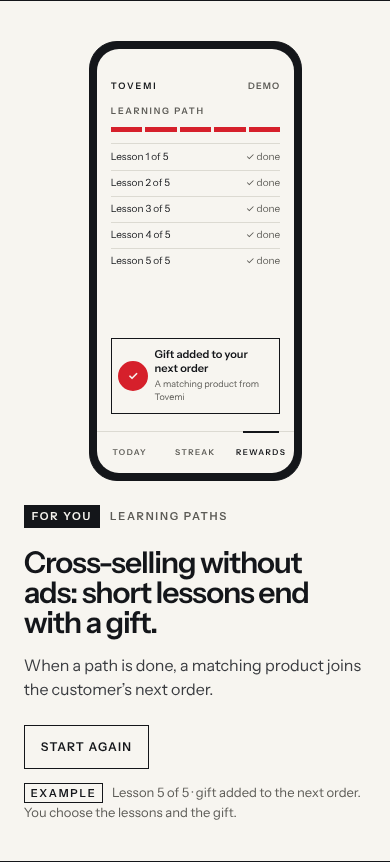
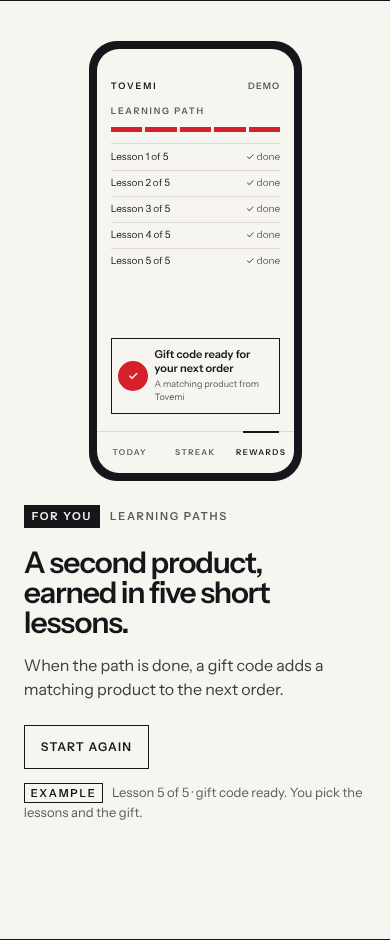
nawyko: R4 sceny d-f — poprawki po recenzji (teksty, rezerwa paska cookies)

diff --git a/app/nawyko/NawykoClient.tsx b/app/nawyko/NawykoClient.tsx
@@ -293,7 +293,7 @@ const BAR_RECTS = BARS.reduce<{ x: number; out: [number, number][] }>(
   },
   { x: 4, out: [] },
 ).out
-const LOCKED = ['Daily card', 'Streak', 'Pack rhythm'] as const
+const LOCKED = ['Daily card', 'Streak'] as const
 
 function Phone({
   step,
@@ -596,7 +596,7 @@ function Phone({
               <span>✓</span>
             </div>
             <div>
-              <b>{lesson >= LESSONS ? 'Gift added to your next order' : 'Gift at the finish'}</b>
+              <b>{lesson >= LESSONS ? 'Gift code ready for your next order' : 'Gift at the finish'}</b>
               <small>A matching product from {brand}</small>
             </div>
           </div>
@@ -618,7 +618,7 @@ function Phone({
           <div className={'nk-ok' + (bought ? ' is-on' : '')}>
             <div className="nk-okrow">
               <span className="nk-tick">✓</span>
-              <span>Purchase confirmed · pharmacy</span>
+              <span>Pack registered · bought offline</span>
             </div>
             <div className="nk-ps">The daily card starts today.</div>
           </div>
@@ -627,7 +627,7 @@ function Phone({
 
         {has(12) ? (
         <div className={on(12)}>
-          <div className="nk-pk">Health data · {consent ? 'on' : 'off'}</div>
+          <div className="nk-pk">Health data consent · {consent ? 'on' : 'off'}</div>
           <div className="nk-pt nk-pt3">{consent ? 'Everything is on.' : 'Visible. Locked until you agree.'}</div>
           <ul className="nk-rw nk-lock">
             {LOCKED.map((f) => (
@@ -641,11 +641,11 @@ function Phone({
             <div className="nk-ps">A tick records the date only.</div>
           ) : onUnlock ? (
             <button type="button" className="nk-unlock" onClick={onUnlock}>
-              Turn on and unlock
+              Agree and turn on
             </button>
           ) : (
             <div className="nk-use nk-use1">
-              <span>Turn on and unlock</span>
+              <span>Agree and turn on</span>
             </div>
           )}
         </div>
@@ -1312,9 +1312,9 @@ function MoreScenes({ skin, brand }: { skin: Skin; brand: string }) {
             <span className="nk-labrest">Learning paths</span>
           </div>
           <h2 className="nk-h2" id="nk-path">
-            Cross-selling without ads: short lessons end with a gift.
+            A second product, earned in five short lessons.
           </h2>
-          <p className="nk-one">When a path is done, a matching product joins the customer&rsquo;s next order.</p>
+          <p className="nk-one">When the path is done, a gift code adds a matching product to the next order.</p>
           <div className="nk-seg">
             <button
               type="button"
@@ -1326,7 +1326,7 @@ function MoreScenes({ skin, brand }: { skin: Skin; brand: string }) {
           </div>
           <p className="nk-fine" aria-live="polite">
             <b className="nk-ex">Example</b> Lesson {Math.min(lesson + (done ? 0 : 1), LESSONS)} of {LESSONS}
-            {done ? ' · gift added to the next order' : ''}. You choose the lessons and the gift.
+            {done ? ' · gift code ready' : ''}. You pick the lessons and the gift.
           </p>
         </div>
         <div className="nk-phonecol">
@@ -1341,17 +1341,17 @@ function MoreScenes({ skin, brand }: { skin: Skin; brand: string }) {
             <span className="nk-labrest">Pharmacy purchases</span>
           </div>
           <h2 className="nk-h2" id="nk-pharm">
-            Pharmacy buyers become visible when they scan the box.
+            Pharmacy buyers show up in your data after one scan.
           </h2>
-          <p className="nk-one">A pack bought offline starts the daily card like an online order and shows up in your reports.</p>
+          <p className="nk-one">A pack bought offline starts the daily card, just like an online order.</p>
           <div className="nk-seg">
             <button type="button" className="nk-sw" onClick={scan}>
               Scan the box
             </button>
           </div>
           <p className="nk-fine" aria-live="polite">
-            <b className="nk-ex">Example</b> {bought ? 'Purchase confirmed · pharmacy.' : 'Scanning the barcode…'} The barcode on
-            the box confirms the purchase.
+            <b className="nk-ex">Example</b> {bought ? 'Pack registered · bought offline.' : 'Scanning the box code…'} The box code
+            registers the pack; a receipt confirms where it was bought.
           </p>
         </div>
         <div className="nk-phonecol">
@@ -1368,7 +1368,7 @@ function MoreScenes({ skin, brand }: { skin: Skin; brand: string }) {
           <h2 className="nk-h2" id="nk-priv">
             Health data never reaches your marketing.
           </h2>
-          <p className="nk-one">Without consent, features stay visible and locked, with one button to turn them on.</p>
+          <p className="nk-one">Without consent, the daily card and streak stay visible but locked, with one button to turn them on.</p>
           <div className="nk-seg" role="group" aria-label="Show the app">
             <button type="button" className="nk-sw" aria-pressed={!consent} onClick={() => setConsent(false)}>
               Without consent
@@ -1378,7 +1378,7 @@ function MoreScenes({ skin, brand }: { skin: Skin; brand: string }) {
             </button>
           </div>
           <p className="nk-fine" aria-live="polite">
-            <b className="nk-ex">Example</b> {consent ? 'Features on.' : 'Features locked.'} A tick is stored as a date,
+            <b className="nk-ex">Example</b> {consent ? 'Daily card and streak on.' : 'Daily card and streak locked.'} A tick is stored as a date,
             never sent to ads, analytics or push messages.
           </p>
         </div>

diff --git a/app/nawyko/nawyko.css b/app/nawyko/nawyko.css
@@ -601,6 +601,8 @@ html:has(.nk){scroll-padding-bottom:calc(var(--consent-h,0px) + 24px);} /* WCAG 
 .nk-unlock:focus-visible{outline:2px solid var(--pa);outline-offset:3px;}
 .nk-unlock:active{transform:translateY(1px);}
 #paths,#pharmacy,#privacy{scroll-margin-top:0;}
+/* pasek cookies (position:fixed) nie moze zaslaniac przyciskow scen na dole ekranu */
+.nk-r4 .nk-still{padding-bottom:calc(clamp(40px,6vw,88px) + var(--consent-h,0px))!important;}
 /* #exchange na telefonie: mniejszy telefon, zeby suwak i ekran aplikacji miescily sie razem w kadrze */
 @media (max-width:860px){
   .nk-still#exchange .nk-phone{height:clamp(270px,35svh,300px);aspect-ratio:9/16;border-radius:24px;padding:6px;}

diff --git a/agencja/teksty-do-akceptacji.md b/agencja/teksty-do-akceptacji.md
@@ -103,23 +103,23 @@ w `agencja/rubryka-tekstow.md`. Recenzje czytelnika-kupującego: `agencja/recenz
 | /nawyko | R4 scena (c) panel marki | {Brand} · brand panel · Example · Points for €1 of cashback · 50 · richer for customers / 200 · cheaper for you · A month of daily cards costs you €{3.00} per customer. | nowy |
 | /nawyko | R4 scena (c) telefon | Exchange points · 300 points = €{3.00} cashback · {100} pts = €1 · Rate set by {Brand} · Move to wallet | nowy |
 | /nawyko | R4 scena (d) etykieta | For you · Learning paths | nowy |
-| /nawyko | R4 scena (d) nagłówek | Cross-selling without ads: short lessons end with a gift. | nowy |
-| /nawyko | R4 scena (d) zdanie | When a path is done, a matching product joins the customer's next order. | nowy |
+| /nawyko | R4 scena (d) nagłówek | A second product, earned in five short lessons. | zmieniony (recenzja 20) |
+| /nawyko | R4 scena (d) zdanie | When the path is done, a gift code adds a matching product to the next order. | zmieniony (recenzja 20) |
 | /nawyko | R4 scena (d) przycisk | Next lesson / Start again | nowy |
-| /nawyko | R4 scena (d) podpis | Example · Lesson {4} of 5[ · gift added to the next order]. You choose the lessons and the gift. | nowy |
-| /nawyko | R4 scena (d) telefon | Learning path · Lesson {n} of 5 · ✓ done / now / next · Gift at the finish / Gift added to your next order · A matching product from {Brand} | nowy |
+| /nawyko | R4 scena (d) podpis | Example · Lesson {4} of 5[ · gift code ready]. You pick the lessons and the gift. | zmieniony (recenzja 20) |
+| /nawyko | R4 scena (d) telefon | Learning path · Lesson {n} of 5 · ✓ done / now / next · Gift at the finish / Gift code ready for your next order · A matching product from {Brand} | zmieniony (recenzja 20) |
 | /nawyko | R4 scena (e) etykieta | For you · Pharmacy purchases | nowy |
-| /nawyko | R4 scena (e) nagłówek | Pharmacy buyers become visible when they scan the box. | nowy |
-| /nawyko | R4 scena (e) zdanie | A pack bought offline starts the daily card like an online order and shows up in your reports. | nowy |
+| /nawyko | R4 scena (e) nagłówek | Pharmacy buyers show up in your data after one scan. | zmieniony (recenzja 20) |
+| /nawyko | R4 scena (e) zdanie | A pack bought offline starts the daily card, just like an online order. | zmieniony (recenzja 20) |
 | /nawyko | R4 scena (e) przycisk | Scan the box | nowy |
-| /nawyko | R4 scena (e) podpis | Example · Purchase confirmed · pharmacy. / Scanning the barcode… · The barcode on the box confirms the purchase. | nowy |
-| /nawyko | R4 scena (e) telefon | Bought in a pharmacy? · Scan the box. · Purchase confirmed · pharmacy · The daily card starts today. | nowy |
+| /nawyko | R4 scena (e) podpis | Example · Pack registered · bought offline. / Scanning the box code… · The box code registers the pack; a receipt confirms where it was bought. | zmieniony (recenzja 20) |
+| /nawyko | R4 scena (e) telefon | Bought in a pharmacy? · Scan the box. · Pack registered · bought offline · The daily card starts today. | zmieniony (recenzja 20) |
 | /nawyko | R4 scena (f) etykieta | For you · Privacy | nowy |
 | /nawyko | R4 scena (f) nagłówek | Health data never reaches your marketing. | nowy |
-| /nawyko | R4 scena (f) zdanie | Without consent, features stay visible and locked, with one button to turn them on. | nowy |
+| /nawyko | R4 scena (f) zdanie | Without consent, the daily card and streak stay visible but locked, with one button to turn them on. | zmieniony (recenzja 20) |
 | /nawyko | R4 scena (f) przyciski | Without consent · With consent | nowy |
-| /nawyko | R4 scena (f) podpis | Example · Features locked. / Features on. · A tick is stored as a date, never sent to ads, analytics or push messages. | nowy |
-| /nawyko | R4 scena (f) telefon | Health data · off / on · Visible. Locked until you agree. / Everything is on. · Daily card · Streak · Pack rhythm · locked / ✓ on · Turn on and unlock (przycisk, „unlock” z kolejki Rafała; rubryka zasada 4 zabrania „unlock” — do decyzji) · A tick records the date only. | nowy |
+| /nawyko | R4 scena (f) podpis | Example · Daily card and streak locked. / Daily card and streak on. · A tick is stored as a date, never sent to ads, analytics or push messages. | zmieniony (recenzja 20) |
+| /nawyko | R4 scena (f) telefon | Health data consent · off / on · Visible. Locked until you agree. / Everything is on. · Daily card · Streak · locked / ✓ on · Agree and turn on (przycisk) · A tick records the date only. | zmieniony (recenzja 20) |
 
 ## /work/genactiv — przebieg 1 (23.11.2026, wszystkie: nowy)
 | Miejsce | Tekst | Status |
